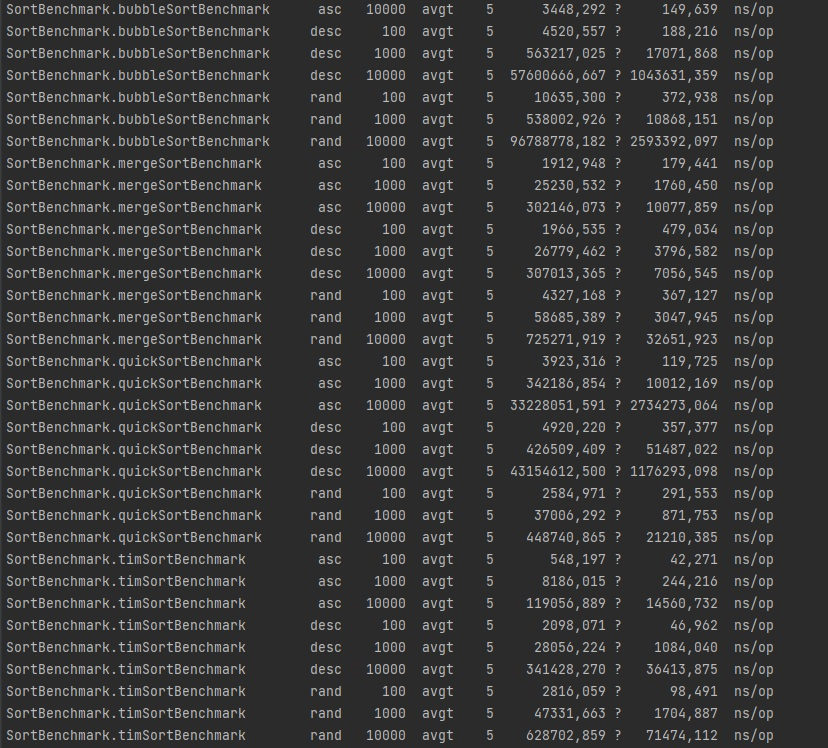
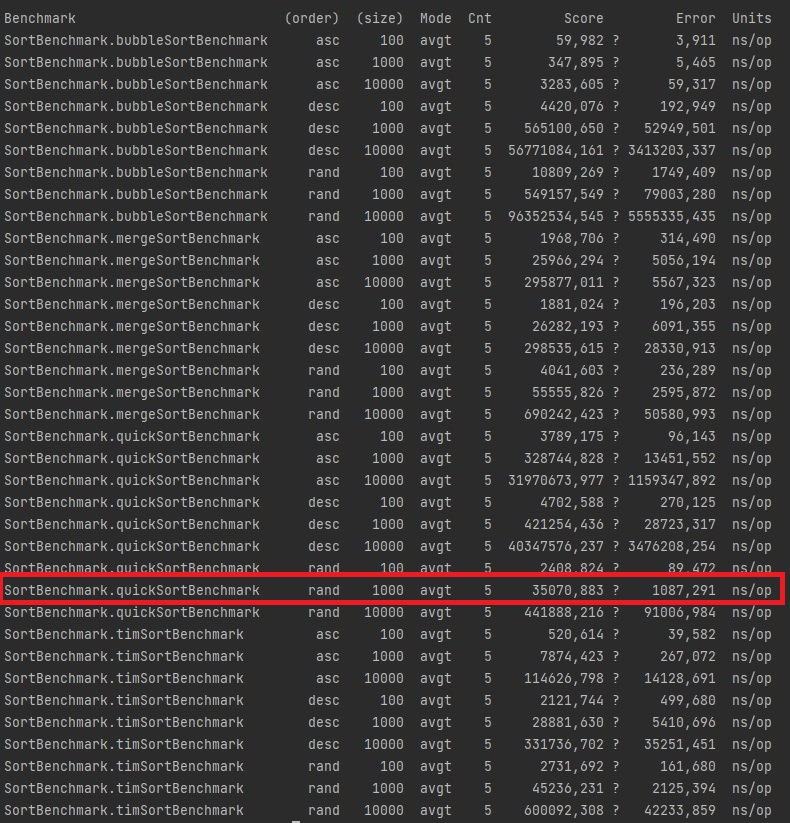
change read.me

Changed region(s): [[0.0, 0.0, 1.0, 1.0]]

diff --git a/README.MD b/README.MD
@@ -29,5 +29,5 @@
 
 ![](screenshots/4.jpg)
 
-На пример, для восходящего массива длиной в 100 элементов лучшие результаты показала сортировка 
-**timSort** (среднее время выполнения метода - 548 операций в нсек)
+На пример, для случайного массива длиной в 1_000 элементов лучшие результаты показала сортировка 
+**quickSort** (среднее время выполнения метода - 35_070 операций в нсек)
